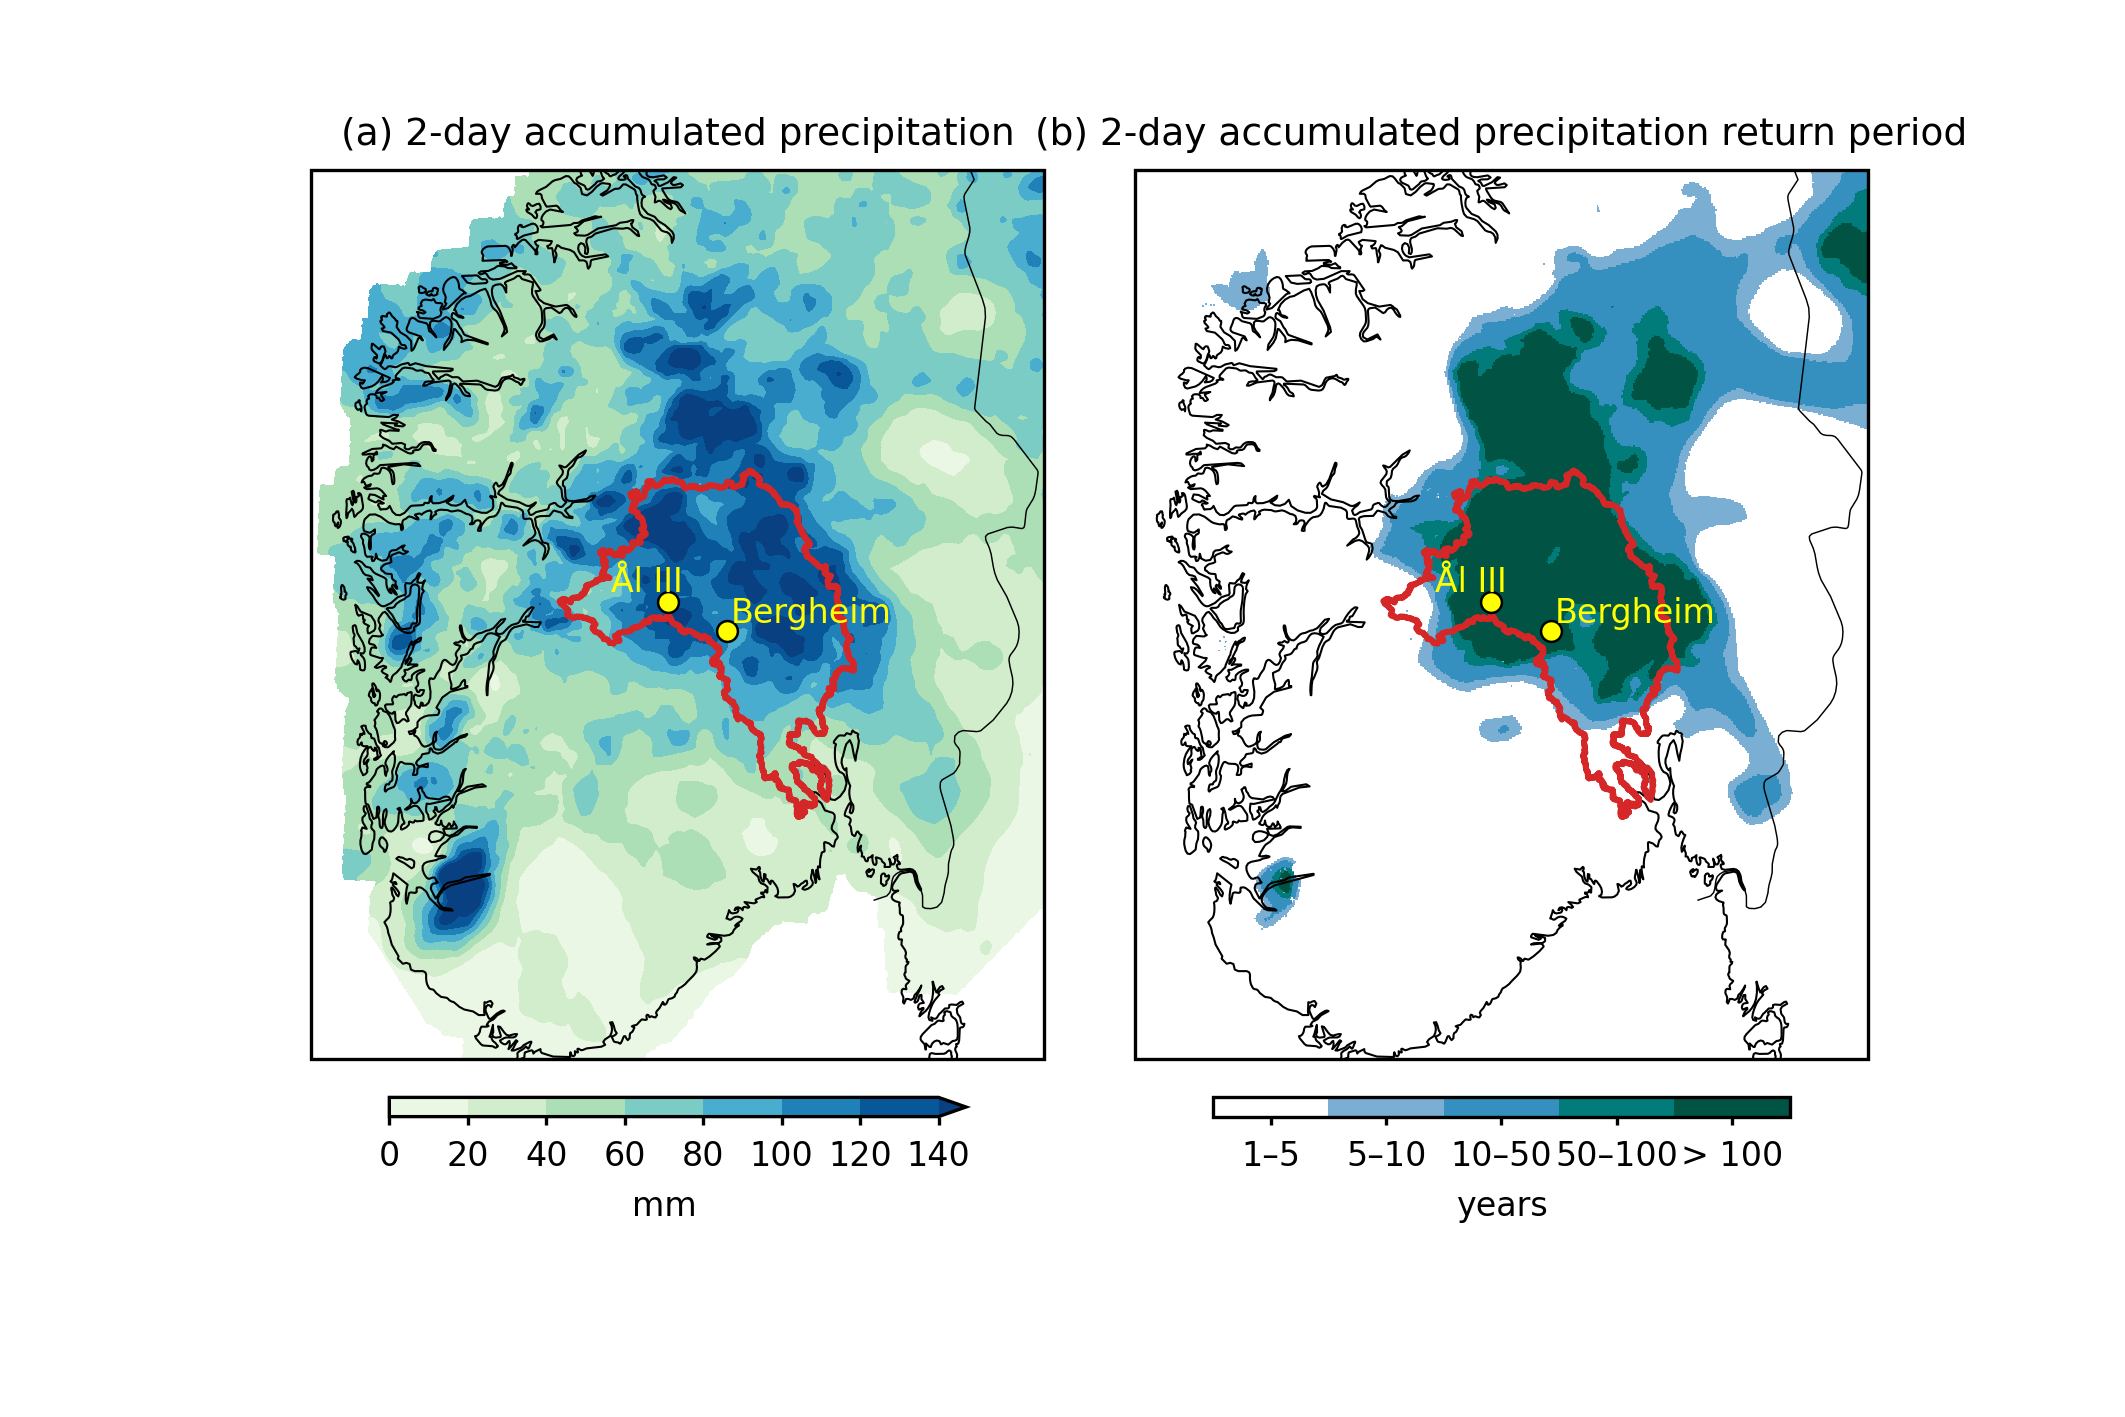
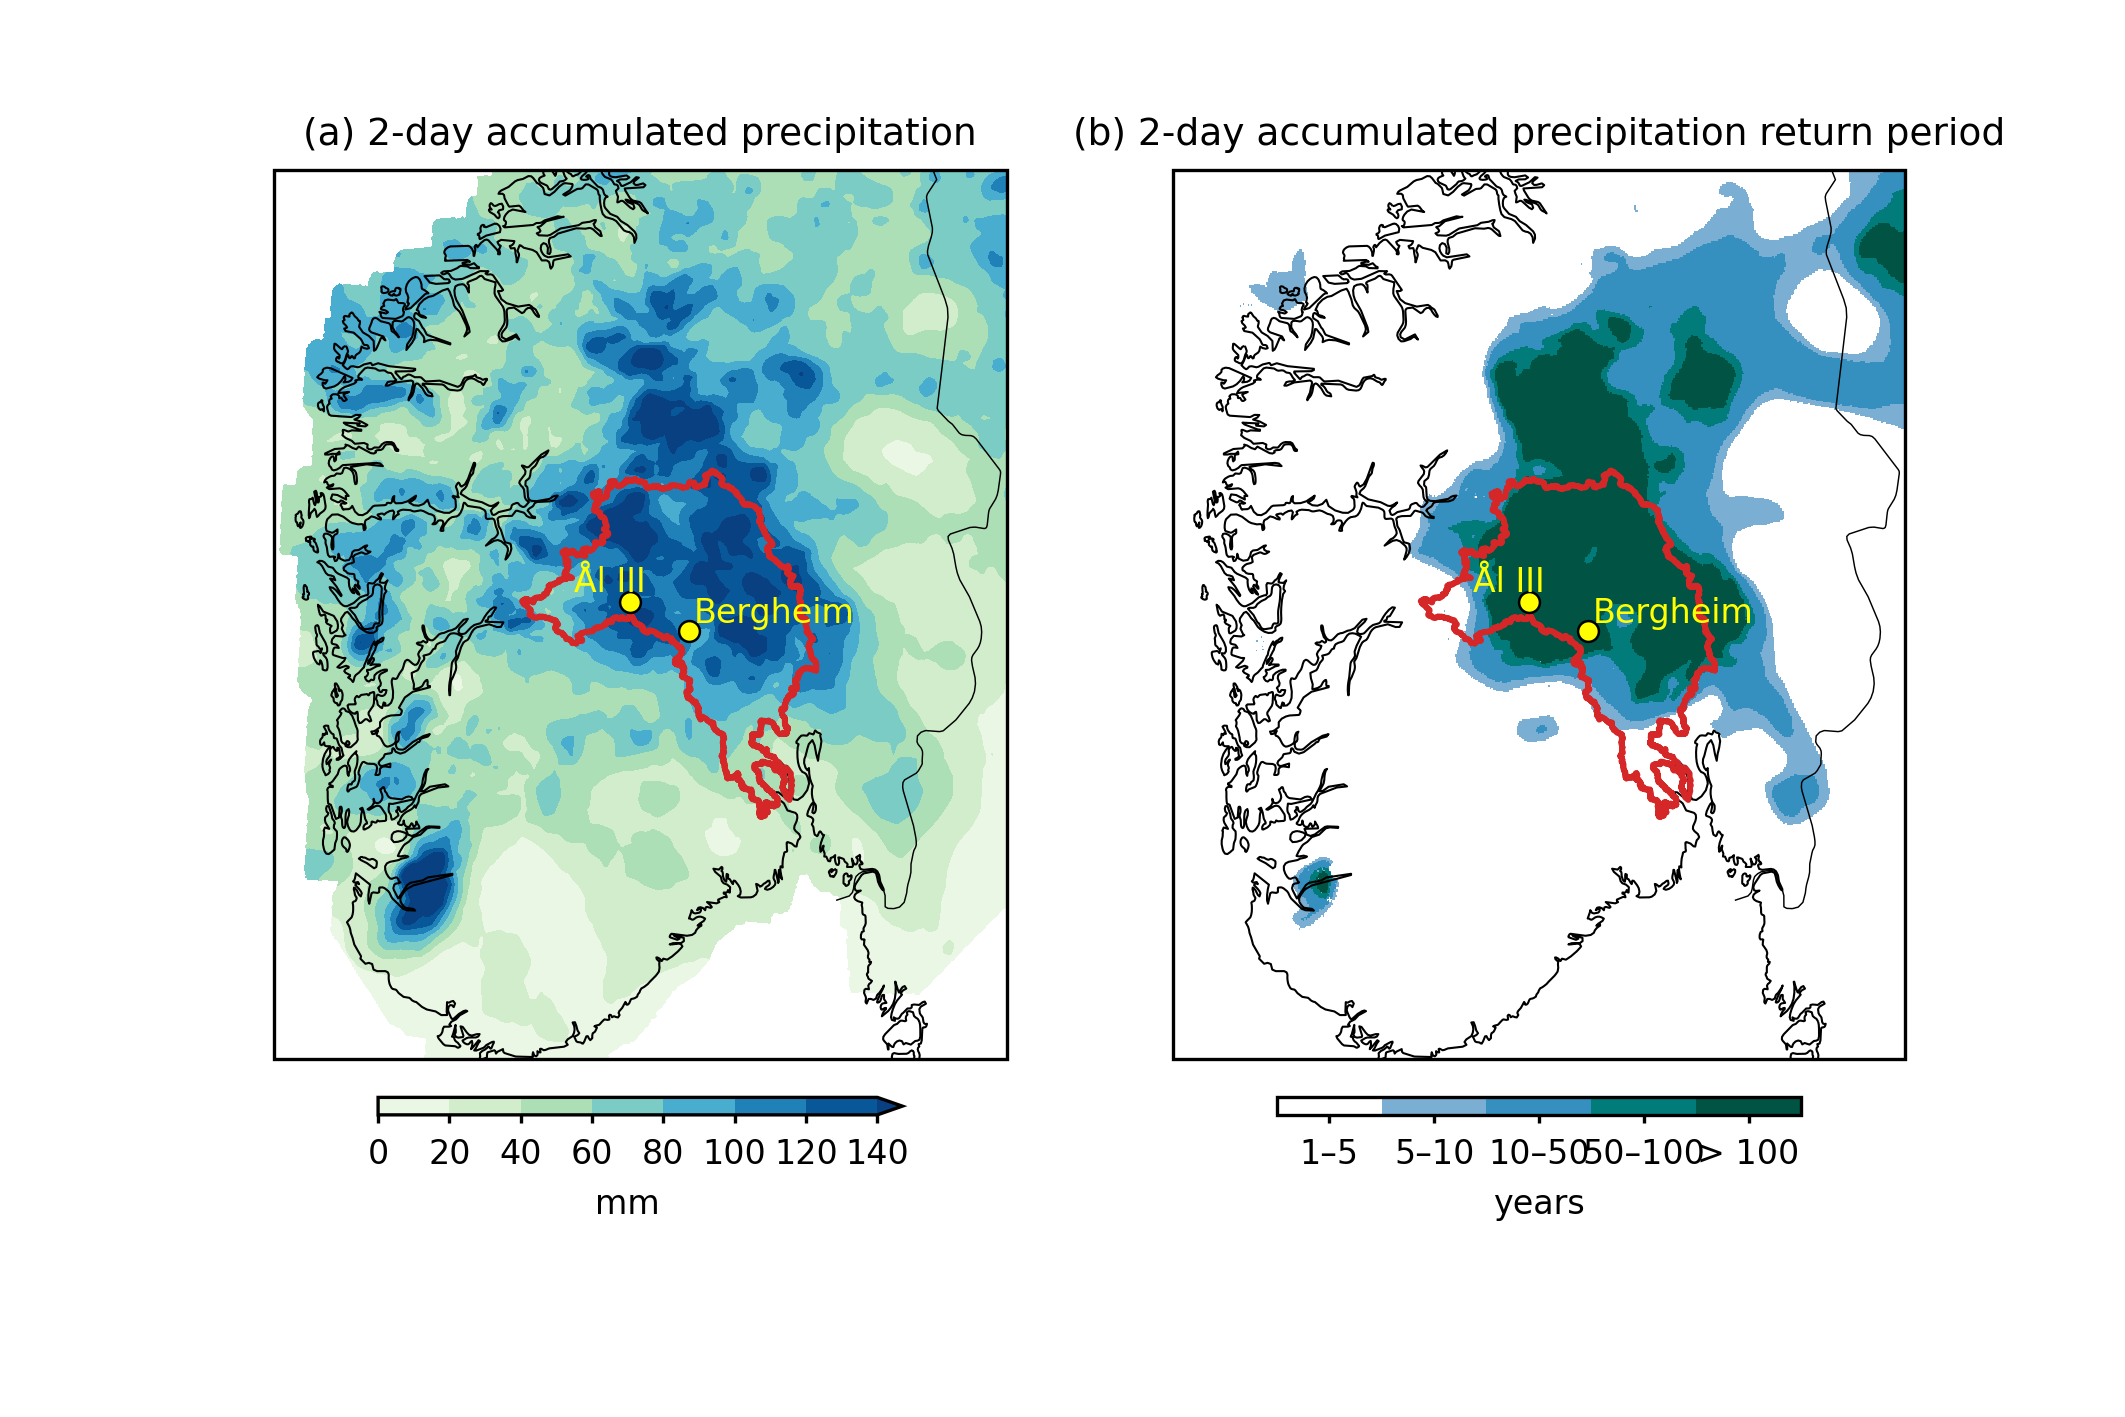
update

diff --git a/code/plot/paper_figs/temp.py b/code/plot/paper_figs/temp.py
@@ -170,9 +170,9 @@ def make_two_map_axes(central_lon=10.0, central_lat=62.0, extent=None):
     )
 
     # Tight spacing between panels
-    fig.subplots_adjust(
-        wspace=-0.0,  # << very small horizontal spacing
-    )
+    #fig.subplots_adjust(
+    #    wspace=-0.0,  # << very small horizontal spacing
+    #)
     
     for ax in axes:
         ax.coastlines(resolution="10m", linewidth=0.5)
